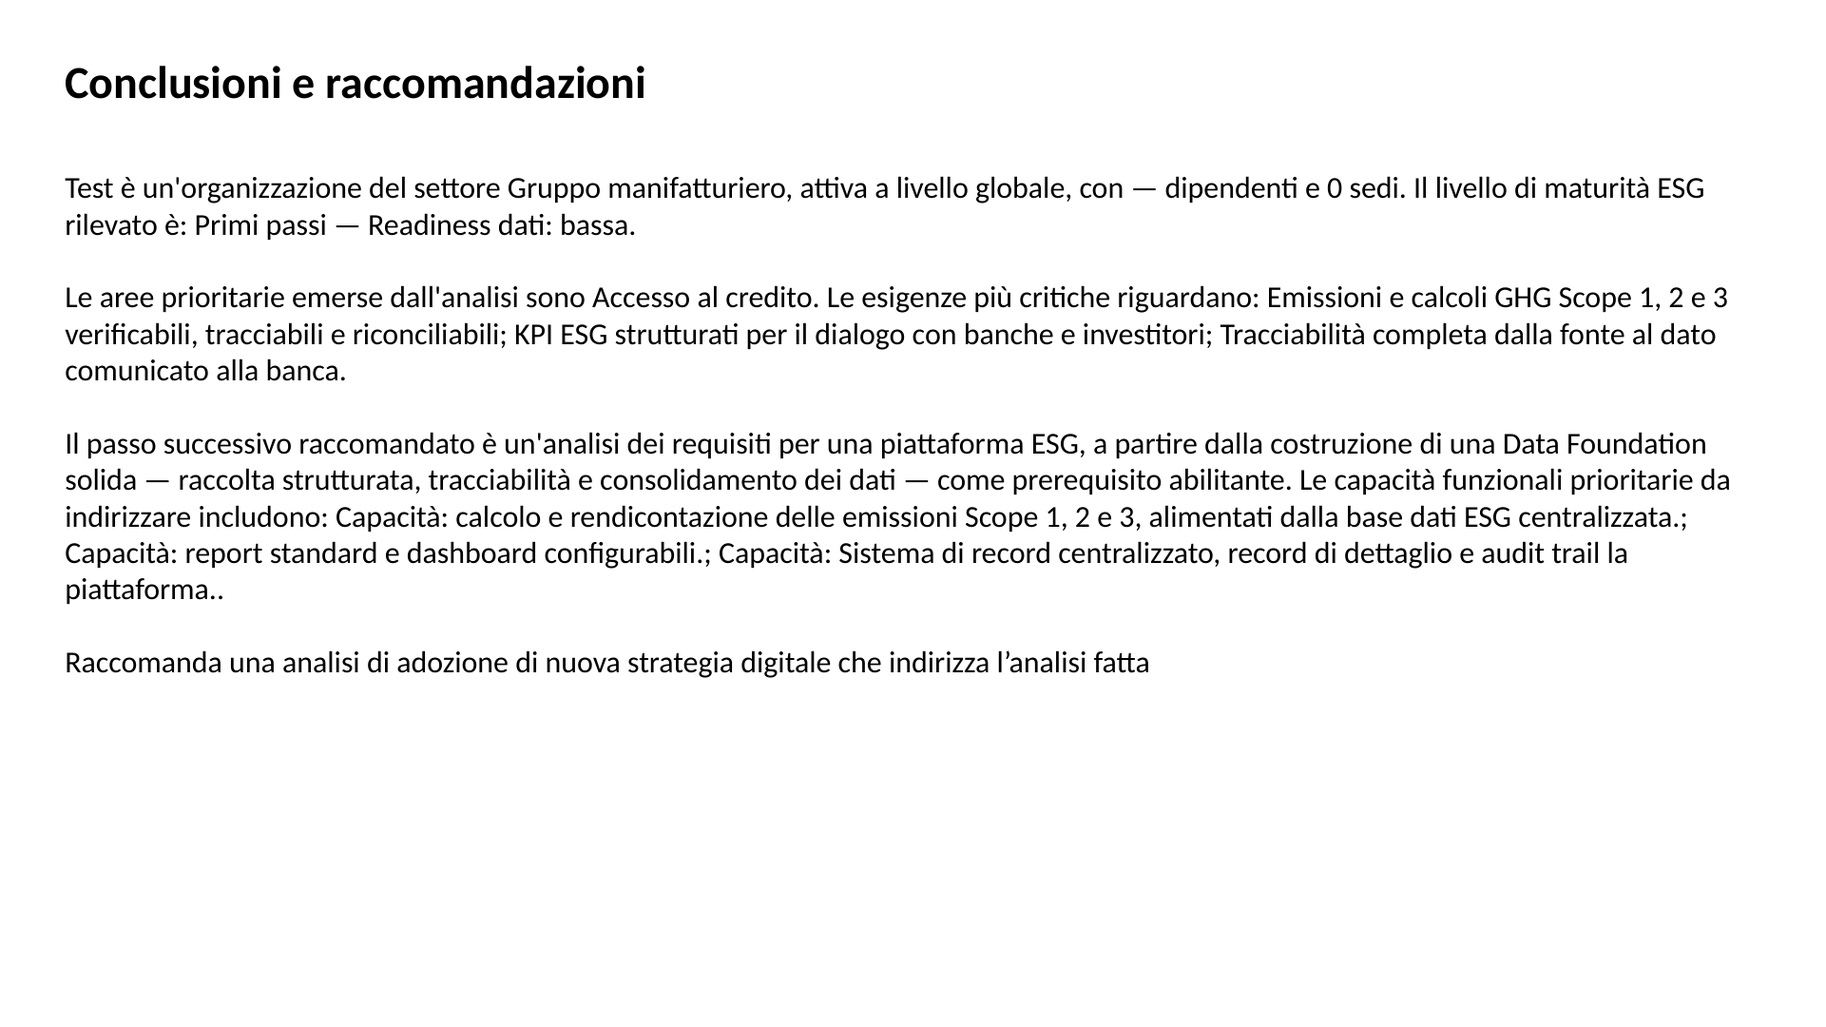
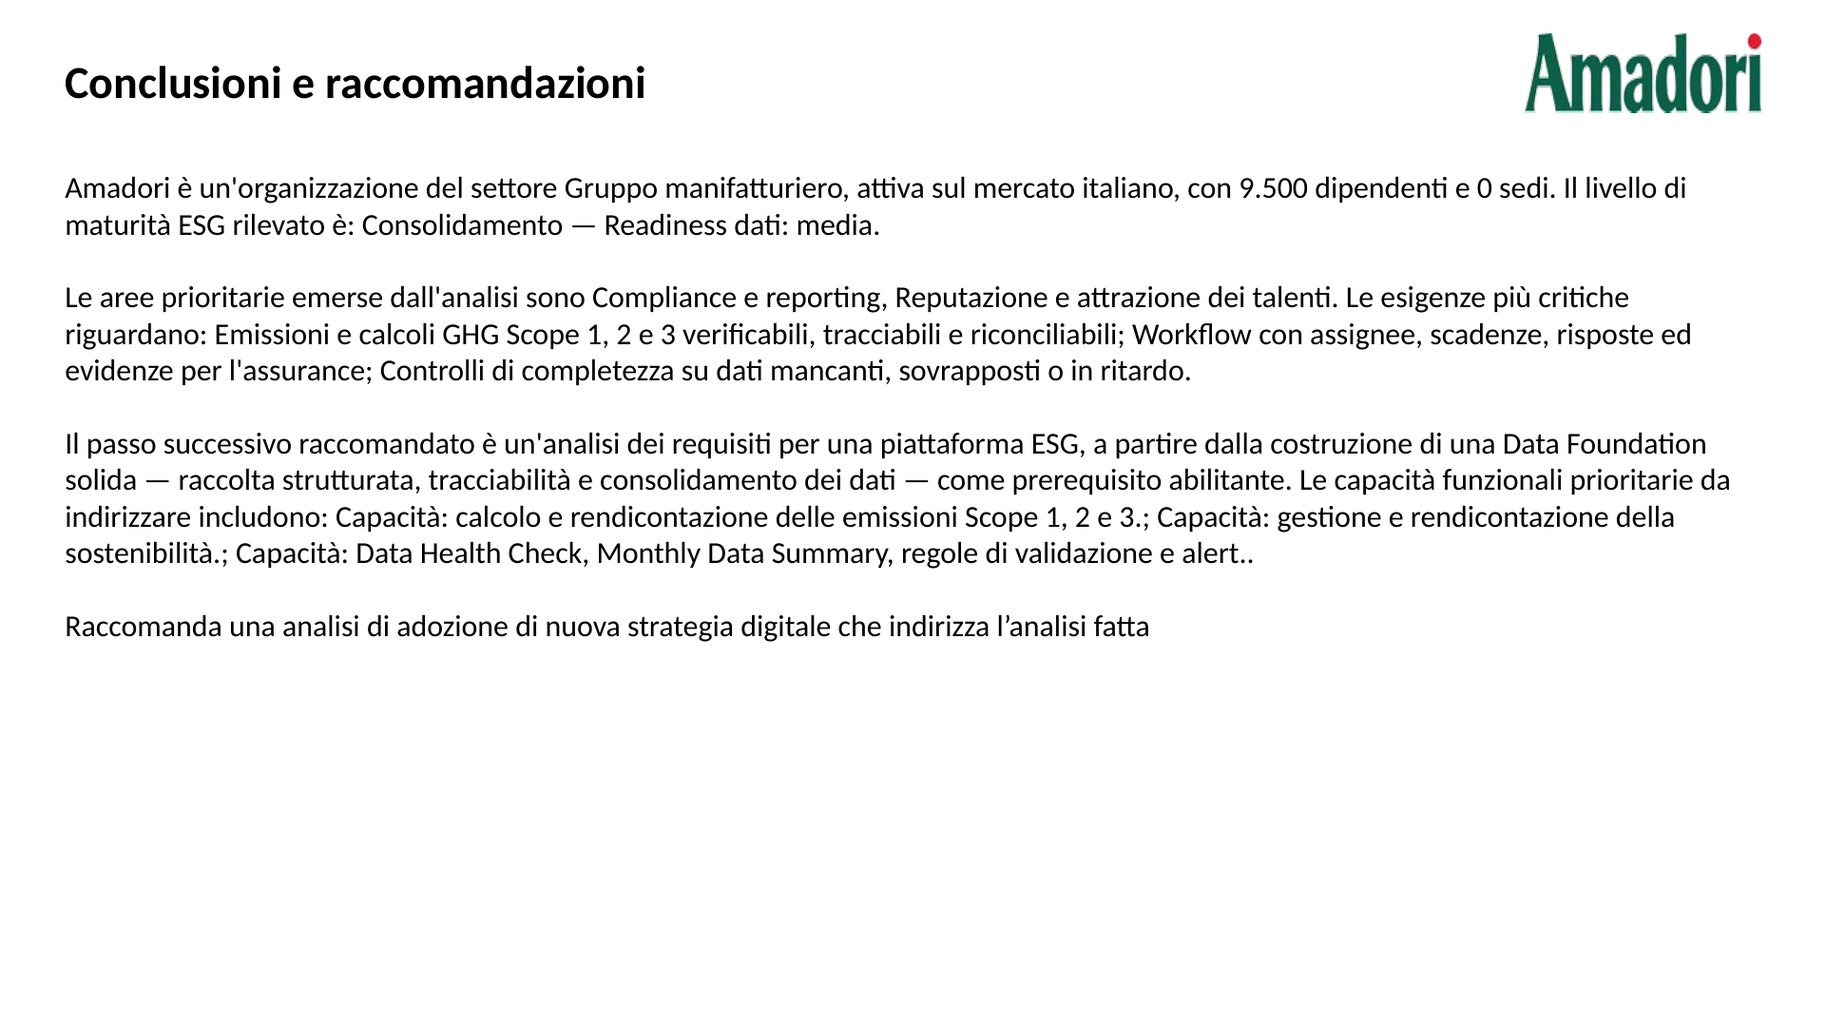
Report PPTX: fix slide 5 layout (box 2/6, 6/6), titles slide 2-4, number formatting, remove interval metering label

diff --git a/source/src/generateTemplatePptx.ts b/source/src/generateTemplatePptx.ts
@@ -1,6 +1,6 @@
 import JSZip from "jszip";
 import type { SummaryPptxData } from "./generateSummaryPptx";
-import { SCENARIO_MODULES, SCENARIO_MODULES_TOBE, NEED_COL_C } from "./constants";
+import { SCENARIO_MODULES, SCENARIO_MODULES_TOBE, NEED_COL_C, fmtNum } from "./constants";
 import iconCredito     from "../public/icon-credito.png";
 import iconCompliance  from "../public/icon-compliance.png";
 import iconClienti     from "../public/icon-clienti.png";
@@ -183,6 +183,23 @@ function prioAtRank(
 //  2. Para-level: for placeholders contained within a single paragraph, replace
 //     in-place preserving the paragraph structure.
 
+// Le chiavi puramente numeriche (es. "500", "54", "8") sono segnaposto dei valori
+// delle stat card: vanno sostituite UNA sola volta e solo se sono l'INTERO testo
+// (seconda passata). Con split/join su ogni passata il valore già sostituito
+// veniva ri-sostituito (es. "500" → "9.500" → "9.9.500").
+const isNumericKey = (k: string) => /^\d+$/.test(k);
+
+function applyReplacements(text: string, replacements: Record<string, string>, allowNumeric: boolean): string {
+  if (allowNumeric && isNumericKey(text) && Object.prototype.hasOwnProperty.call(replacements, text)) {
+    return replacements[text];
+  }
+  let out = text;
+  for (const [ph, val] of Object.entries(replacements)) {
+    if (!isNumericKey(ph)) out = out.split(ph).join(val);
+  }
+  return out;
+}
+
 function replaceInSlideXml(xml: string, replacements: Record<string, string>): string {
   // Pass 1 — shape-level (handles multi-paragraph placeholders)
   xml = xml.replace(/(<p:txBody>)([\s\S]*?)(<\/p:txBody>)/g, (match, open, body, close) => {
@@ -196,10 +213,7 @@ function replaceInSlideXml(xml: string, replacements: Record<string, string>): s
     });
     const fullText = paraTexts.join("");
 
-    let newText = fullText;
-    for (const [ph, val] of Object.entries(replacements)) {
-      newText = newText.split(ph).join(val);
-    }
+    const newText = applyReplacements(fullText, replacements, false);
     if (newText === fullText) return match; // no multi-para placeholder matched
 
     // Extract body-level props (bodyPr, lstStyle) and first rPr
@@ -221,10 +235,7 @@ function replaceInSlideXml(xml: string, replacements: Record<string, string>): s
       .map((t) => t.replace(/<a:t>|<\/a:t>/g, ""))
       .join("");
 
-    let newText = fullText;
-    for (const [ph, val] of Object.entries(replacements)) {
-      newText = newText.split(ph).join(val);
-    }
+    const newText = applyReplacements(fullText, replacements, true);
 
     if (newText === fullText) return paraMatch;
 
@@ -270,14 +281,100 @@ function fixSlide2ReadinessFont(xml: string): string {
   );
 }
 
-// ── Slide 5 reputazione note nudge ───────────────────────────────────────────
-// Shifts the note text box of the reputazione slot (id=50) slightly downward
-// so it aligns better visually with the other bottom-row note boxes.
-function nudgeSlide5ReputazioneNote(xml: string): string {
+// ── Slide 5 note boxes: altezza rigida ───────────────────────────────────────
+// Le caselle-nota (id 39,42,44,46,48,50) nel template hanno spAutoFit: l'altezza segue la
+// quantità di testo, quindi il testo (centrato in verticale) finiva a livelli diversi da box
+// a box (es. 6/6 con meno righe del 5/6). Le rendo rigide (noAutofit) e tutte alte come quella
+// del 5/6 (id=48, cy=1384995). La nota del 6/6 (id=50) parte dalla stessa y della nota del 5/6
+// (3502152), così il testo è centrato sullo stesso livello.
+const SLIDE5_NOTE_IDS = [39, 42, 44, 46, 48, 50];
+const SLIDE5_NOTE_CY = 1384995;
+function fixSlide5NotesRigid(xml: string): string {
+  for (const id of SLIDE5_NOTE_IDS) {
+    const re = new RegExp(`(<p:sp>(?:(?!<p:sp>)[\\s\\S])*?<p:cNvPr[^>]*\\bid="${id}"[^>]*>[\\s\\S]*?</p:sp>)`);
+    xml = xml.replace(re, (sp) => {
+      let out = sp
+        .replace(/<a:spAutoFit\/>/g, "<a:noAutofit/>")
+        .replace(/(<a:ext cx="\d+" cy=")\d+(")/, (_m, a, b) => `${a}${SLIDE5_NOTE_CY}${b}`);
+      // Nota 6/6: stessa x della nota 3/6 (id=44, x=9677410) e stessa y della nota 5/6.
+      if (id === 50) out = out.replace(/<a:off x="\d+" y="\d+"/, `<a:off x="9677410" y="3502152"`);
+      return out;
+    });
+  }
+  return xml;
+}
+
+// ── Slide 5 box 6 resize/align ───────────────────────────────────────────────
+// Card dello slot 6 (immagine id=61). Le PNG delle card hanno margini trasparenti diversi,
+// quindi la cornice NON può essere copiata dal box 5: va calcolata sulla card VISIBILE.
+// Misure sui pixel delle PNG (righe/colonne della card visibile, estremi inclusi):
+//   box 5 (id=66, 310×130 px, cornice 3937000×1651000 @ y=3347112): righe 1–124 (12700 EMU/px)
+//   box 6 (id=61, 313×129 px): righe 4–127, colonne 33–310
+//   box 3 (id=69, 310×137 px, cornice x=8138437 w=3975100): colonne 39–302
+// Obiettivo: stessa altezza e stesso livello (top/bottom) del box 5, bordi sinistro e destro
+// visibili allineati al box 3.
+//   cy = 129·12700 = 1638300 · y = 3359812 − 4·12700 = 3309012
+//   visibile 3 = [8638542, 12011050] → 12175.1 EMU/px · cx = 313·12175.1 = 3810806 · x = 8638542 − 33·12175.1 = 8236764
+function resizeSlide5Box6(xml: string): string {
   return xml.replace(
-    /(<p:sp>(?:(?!<p:sp>)[\s\S])*?<p:cNvPr[^>]*\bid="50"[^>]*>[\s\S]*?<a:off x="[^"]*" y=")(\d+)(")/,
-    (_, pre, _y, post) => `${pre}3679584${post}`
+    /(<p:pic>(?:(?!<p:pic>)[\s\S])*?<p:cNvPr[^>]*\bid="61"[^>]*>[\s\S]*?<a:off x=")\d+(" y=")\d+("\/><a:ext cx=")\d+(" cy=")\d+(")/,
+    (_m, a, b, c, d, e) => `${a}8236764${b}3309012${c}3810806${d}1638300${e}`
   );
+}
+
+// ── Slide 5 box 2 vertical align ─────────────────────────────────────────────
+// Le immagini-card hanno margini trasparenti diversi e vengono riassegnate agli slot in base
+// alle priorità (remapSlide5Icons), quindi il bordo alto VISIBILE dipende dall'immagine.
+// Calcolo il bordo alto visibile di ogni card della riga alta (y + riga_top·cy/altezza_px) e
+// sposto lo slot 2 (id=70) così che il suo bordo alto coincida con la media di slot 1 (id=68)
+// e slot 3 (id=69). Righe del bordo alto / altezze in px per rId (misurate sui PNG).
+const SLIDE5_CARD_TOP_PX: Record<string, [number, number]> = {
+  rId4: [4, 136], rId5: [4, 129], rId6: [1, 130], rId7: [5, 132], rId8: [8, 137], rId9: [8, 141],
+};
+function alignSlide5Box2(xml: string): string {
+  const picRe = (id: number) =>
+    new RegExp(`(<p:pic>(?:(?!<p:pic>)[\\s\\S])*?<p:cNvPr[^>]*\\bid="${id}"[\\s\\S]*?r:embed=")([^"]+)("[\\s\\S]*?<a:off x="\\d+" y=")(\\d+)("/><a:ext cx="\\d+" cy=")(\\d+)(")`);
+  const visTop = (id: number): number | null => {
+    const m = xml.match(picRe(id));
+    const t = m && SLIDE5_CARD_TOP_PX[m[2]];
+    return m && t ? Number(m[4]) + (t[0] * Number(m[6])) / t[1] : null;
+  };
+  const t1 = visTop(68), t3 = visTop(69), t2 = visTop(70);
+  if (t1 === null || t3 === null || t2 === null) return xml;
+  const delta = Math.round((t1 + t3) / 2 - t2);
+  return xml.replace(picRe(70), (_m, a, r, c, y, d, cy, e) => `${a}${r}${c}${Number(y) + delta}${d}${cy}${e}`);
+}
+
+// ── Slide 5 title 5/6 reposition ─────────────────────────────────────────────
+// Titolo dello slot 5 (rettangolo id=12): x allineata al titolo 2/6 (id=4, x=4399234),
+// y spostata leggermente in basso (3323842 → 3373842, +50000 EMU ≈ 4pt).
+function moveSlide5Title5(xml: string): string {
+  return xml.replace(
+    /(<p:sp>(?:(?!<p:sp>)[\s\S])*?<p:cNvPr[^>]*\bid="12"[^>]*>[\s\S]*?<a:off x=")\d+(" y=")\d+(")/,
+    (_m, a, b, c) => `${a}4399234${b}3373842${c}`
+  );
+}
+
+// ── Slide 5 box 1 widen ──────────────────────────────────────────────────────
+// Allarga verso sinistra la card dello slot 1 (immagine id=68) allineandola alla card
+// dello slot 4 (id=60): x 239629 → 127277, cx 3775834 → 3888186. Il bordo destro
+// (4015463) resta identico a quello del box 4.
+function widenSlide5Box1(xml: string): string {
+  return xml.replace(
+    /(<p:pic>(?:(?!<p:pic>)[\s\S])*?<p:cNvPr[^>]*\bid="68"[^>]*>[\s\S]*?<a:off x=")\d+(" y="\d+"\/><a:ext cx=")\d+(")/,
+    (_m, a, b, c) => `${a}127277${b}3888186${c}`
+  );
+}
+
+// ── Slide 5 notes font reducer ───────────────────────────────────────────────
+// Riduce del 20% il font dei box-nota degli obiettivi (id 39,42,44,46,48,50:
+// sz 1100 → 880). I titoli "N/6 …" (rettangoli id 4,6,8,10,12,27) restano al 100%.
+function reduceSlide5NotesFont(xml: string): string {
+  for (const id of [39, 42, 44, 46, 48, 50]) {
+    const re = new RegExp(`(<p:sp>(?:(?!<p:sp>)[\\s\\S])*?<p:cNvPr[^>]*\\bid="${id}"[^>]*>[\\s\\S]*?</p:sp>)`);
+    xml = xml.replace(re, (spBlock) => spBlock.replace(/\bsz="1100"/g, `sz="880"`));
+  }
+  return xml;
 }
 
 // ── Slide 6 title font reducer ────────────────────────────────────────────────
@@ -818,8 +915,8 @@ async function generateCompanySlidePng(data: SummaryPptxData, isIt: boolean): Pr
     const stats = [
       [isIt?"Settore":"Sector", data.sectorLabel],
       [isIt?"Mercato":"Market", data.marketLabel],
-      [isIt?"Fatturato":"Revenue", `${data.revenue} ${data.dimUnit}${data.revenueYear ? ` (${data.revenueYear})` : ""}`],
-      [isIt?"Dipendenti":"Employees", String(data.employees?.toLocaleString() ?? "—")],
+      [isIt?"Fatturato":"Revenue", `${fmtNum(data.revenue, isIt)} ${data.dimUnit}${data.revenueYear ? ` (${data.revenueYear})` : ""}`],
+      [isIt?"Dipendenti":"Employees", data.employees != null ? fmtNum(data.employees, isIt) : "—"],
     ];
     let y = 90;
     const statW = (W/2 - 72) / 2 - 8;
@@ -991,7 +1088,7 @@ function buildFindingsSummary(
   const maturity   = data.maturityTitle  || (isIt ? "in fase di strutturazione" : "in a structuring phase");
   const sector     = data.sectorLabel   || "";
   const market     = data.marketLabel   || "";
-  const employees  = data.employees     ? data.employees.toLocaleString() : "—";
+  const employees  = data.employees     ? fmtNum(data.employees, isIt) : "—";
   const totalSedi  = data.plants + data.offices + (data.dataCenters ?? 0);
 
   if (isIt) {
@@ -1554,13 +1651,16 @@ async function _generateTemplatePptxImpl(data: SummaryPptxData): Promise<void> {
     : (geoComplexityLevel === "low" ? "Low"   : geoComplexityLevel === "medium" ? "Medium" : "High");
   const geoComplexityColor = geoComplexityLevel === "low" ? "2E7D54" : geoComplexityLevel === "medium" ? "C07A00" : "C0392B";
   const slide3ComplexityText = isIt
-    ? `Complessità di reporting per ${resolvedCompanyName}: ${geoComplexityLabel}`
-    : `Reporting complexity for ${resolvedCompanyName}: ${geoComplexityLabel}`;
+    ? `Impatto su complessità del reporting di ${resolvedCompanyName}: ${geoComplexityLabel}`
+    : `Impact on reporting complexity of ${resolvedCompanyName}: ${geoComplexityLabel}`;
 
   // Slide2 title (shape id=2): company name + market presence + ESG focus
+  const mkt = data.marketLabel.toLowerCase();
+  const presenceIt = mkt === "solo italia" ? "presenza solo in Italia" : mkt === "europa" ? "presenza europea" : `presenza ${mkt}`;
+  const presenceEn = mkt === "italy only" ? "a presence in Italy only" : mkt === "europe" ? "a European presence" : `a ${mkt} presence`;
   const slide2Title = isIt
-    ? `${resolvedCompanyName} combina una presenza ${data.marketLabel.toLowerCase()} con una forte attenzione a ESG`
-    : `${resolvedCompanyName} combines a ${data.marketLabel.toLowerCase()} presence with a strong focus on ESG`;
+    ? `${resolvedCompanyName} combina una ${presenceIt} con una forte attenzione a ESG`
+    : `${resolvedCompanyName} combines ${presenceEn} with a strong focus on ESG`;
 
   // Slide 5 (priorities): fill each of the 6 fixed cells.
   // Template cell order (by shape id in slide5):
@@ -1625,14 +1725,19 @@ async function _generateTemplatePptxImpl(data: SummaryPptxData): Promise<void> {
     "Incontro di lavoro · 2026":
       `${isIt ? "Incontro di lavoro" : "Working session"} · ${new Date().getFullYear()}`,
 
+    // ── Slide 3 title (testo fisso nel template) ──
+    "Valute e unità di misura aumentano la complessità del reporting globale":
+      isIt ? "Molteplici valute e unità di misura aumentano la complessità del reporting globale"
+           : "Multiple currencies and units of measure increase global reporting complexity",
+
     // ── Slide 2 ──
     // Title (id=2): dynamic sentence
     "Erica combina una presenza globale con una maturità ESG ancora iniziale": slide2Title,
     // Stat cards — value shapes
     // Strip trailing descriptor word from dimUnit (e.g. "€mln ricavi" → "€mln")
     // so the card shows only the numeric value + monetary unit; the label below already carries the descriptor.
-    "€100 mln": `${data.revenue} ${data.dimUnit.replace(/\s+\S+$/, "")}`,
-    "500":      `${data.employees.toLocaleString()}`,
+    "€100 mln": `${fmtNum(data.revenue, isIt)} ${data.dimUnit.replace(/\s+\S+$/, "")}`,
+    "500":      `${fmtNum(data.employees, isIt)}`,
     "54":       `${totalSedi}`,
     "8":        `${activeGeoCount}`,
     // Revenue card sub-label: add year
@@ -1955,7 +2060,12 @@ async function _generateTemplatePptxImpl(data: SummaryPptxData): Promise<void> {
     // Slide 5: remap priority icons + nudge reputazione note downward
     if (i === 5) {
       xmlStr = remapSlide5Icons(xmlStr);
-      xmlStr = nudgeSlide5ReputazioneNote(xmlStr);
+      xmlStr = fixSlide5NotesRigid(xmlStr);
+      xmlStr = reduceSlide5NotesFont(xmlStr);
+      xmlStr = widenSlide5Box1(xmlStr);
+      xmlStr = moveSlide5Title5(xmlStr);
+      xmlStr = resizeSlide5Box6(xmlStr);
+      xmlStr = alignSlide5Box2(xmlStr);
     }
 
     // Slide 6: reduce title font, run text replacements, then write the needs list last
@@ -2025,8 +2135,8 @@ async function _generateTemplatePptxImpl(data: SummaryPptxData): Promise<void> {
     const inUsoCount4 = Object.values(fwChecks).filter(f => f.inUso).length;
     const slide4Title = inUsoCount4 === 0
       ? (isIt
-          ? `${resolvedCompanyName} non usa ancora framework ESG strutturati`
-          : `${resolvedCompanyName} does not yet use structured ESG frameworks`)
+          ? `${resolvedCompanyName} non usa altri standard oltre ESRS come framework ESG strutturati`
+          : `${resolvedCompanyName} does not use other standards beyond ESRS as structured ESG frameworks`)
       : inUsoCount4 === 1
         ? (isIt
             ? `${resolvedCompanyName} usa un unico framework ESG`

diff --git a/source/src/screens/ReportSlideshow.tsx b/source/src/screens/ReportSlideshow.tsx
@@ -1,7 +1,7 @@
 import { useState } from "react";
 import type { CommonProps } from "./types";
 import type { Priority } from "../types";
-import { SCENARIO_MODULES } from "../constants";
+import { SCENARIO_MODULES, fmtNum } from "../constants";
 
 type SiteGeoKey = "italia"|"europa"|"nordamerica"|"sudamerica"|"asia"|"africa"|"australia";
 type SiteRowKey = "uffici"|"ops"|"datacenter"|"altro";
@@ -135,8 +135,8 @@ function SlideCompany({ d }: { d: ReportData }) {
               {[
                 {label:isIt?"Settore":"Sector", value:d.sectorLabel},
                 {label:isIt?"Mercato":"Market", value:d.marketLabel},
-                {label:isIt?"Fatturato":"Revenue", value:`${d.revenue} ${d.dimUnit}`},
-                {label:isIt?"Dipendenti":"Employees", value:d.employees.toLocaleString()},
+                {label:isIt?"Fatturato":"Revenue", value:`${fmtNum(d.revenue,isIt)} ${d.dimUnit}`},
+                {label:isIt?"Dipendenti":"Employees", value:fmtNum(d.employees,isIt)},
               ].map(({label,value})=>(
                 <div key={label} style={{background:"#f0f7f3",borderRadius:10,padding:"10px 14px",borderLeft:"3px solid #1a7a4a"}}>
                   <div style={{fontSize:11,fontWeight:700,color:"#1a7a4a",letterSpacing:".08em",textTransform:"uppercase",marginBottom:4}}>{label}</div>
@@ -222,15 +222,15 @@ function Slide2({ d }: { d: ReportData }) {
             {isIt?`${d.companyName} ha avviato il percorso ESG`:`${d.companyName} has started its ESG journey`}
           </div>
           <div style={{fontSize:15,fontWeight:600,color:complexityBg,letterSpacing:".01em"}}>
-            {isIt?`Complessità di reporting per ${d.companyName}: ${complexityLabel}`:`Reporting complexity for ${d.companyName}: ${complexityLabel}`}
+            {isIt?`Impatto su complessità del reporting di ${d.companyName}: ${complexityLabel}`:`Impact on reporting complexity of ${d.companyName}: ${complexityLabel}`}
           </div>
         </div>
         <div style={{display:"grid",gridTemplateColumns:"1fr 1fr",gap:"0 60px"}}>
           {/* left col */}
           <div style={{fontSize:17,color:"#1a3a2a",lineHeight:1.9,display:"flex",flexDirection:"column",gap:4}}>
             <p style={{margin:0}}>{isIt?`${d.companyName} è un ${d.sectorLabel.toLowerCase()} presente a livello ${d.marketLabel}.`:`${d.companyName} is a ${d.sectorLabel.toLowerCase()} operating at ${d.marketLabel} level.`}</p>
-            <p style={{margin:0}}>{isIt?`Nell'ultimo esercizio ha registrato ${d.revenue} ${d.dimUnit}.`:`In the last financial year it reported ${d.revenue} ${d.dimUnit}.`}</p>
-            <p style={{margin:0}}>{isIt?`L'organizzazione occupa ${d.employees.toLocaleString()} dipendenti.`:`The organisation employs ${d.employees.toLocaleString()} employees.`}</p>
+            <p style={{margin:0}}>{isIt?`Nell'ultimo esercizio ha registrato ${fmtNum(d.revenue,isIt)} ${d.dimUnit}.`:`In the last financial year it reported ${fmtNum(d.revenue,isIt)} ${d.dimUnit}.`}</p>
+            <p style={{margin:0}}>{isIt?`L'organizzazione occupa ${fmtNum(d.employees,isIt)} dipendenti.`:`The organisation employs ${fmtNum(d.employees,isIt)} employees.`}</p>
             <p style={{margin:0,color:d.csrdLabel.includes("non")||d.csrdLabel.includes("Not")?"#888":"#c05000"}}>{d.csrdLabel} {d.csrdSub}</p>
             <p style={{margin:"2px 0 0",fontSize:14}}>
               <span onClick={()=>window.open("https://www.consilium.europa.eu/en/press/press-releases/2026/02/24/council-signs-off-simplification-of-sustainability-reporting-and-due-diligence-requirements-to-boost-eu-competitiveness/","_blank")} style={{color:"#c05000",textDecoration:"underline",fontWeight:600,cursor:"pointer"}}>{isIt?"Consiglio dell'UE ↗":"EU Council ↗"}</span>

diff --git a/source/src/screens/SummarySlideViewer.tsx b/source/src/screens/SummarySlideViewer.tsx
@@ -1,5 +1,6 @@
 import React, { useState, useRef } from "react";
 import type { SummaryPptxData } from "../generateSummaryPptx";
+import { fmtNum } from "../constants";
 
 interface Props {
   data: SummaryPptxData;
@@ -163,8 +164,8 @@ function Slide2({ data, isIt }: { data: SummaryPptxData; isIt: boolean }) {
               : ` is a ${data.sectorLabel} operating mainly in ${data.marketLabel}.`}
             {" "}
             {isIt
-              ? `Nell'anno ${year} ha registrato ${data.revenue} ${data.dimUnit} · ${data.employees.toLocaleString()} dipendenti.`
-              : `In ${year} it recorded ${data.revenue} ${data.dimUnit} · ${data.employees.toLocaleString()} employees.`}
+              ? `Nell'anno ${year} ha registrato ${fmtNum(data.revenue, true)} ${data.dimUnit} · ${fmtNum(data.employees, true)} dipendenti.`
+              : `In ${year} it recorded ${fmtNum(data.revenue, false)} ${data.dimUnit} · ${fmtNum(data.employees, false)} employees.`}
           </div>
 
           {/* CSRD card */}

diff --git a/source/src/generateSummaryPptx.ts b/source/src/generateSummaryPptx.ts
@@ -1,4 +1,5 @@
 import PptxGenJS from "pptxgenjs";
+import { fmtNum } from "./constants";
 
 // ── palette ──────────────────────────────────────────────────────────────
 const BG      = "07110e";
@@ -72,8 +73,8 @@ function addSlide1(
   const tags = [
     sectorLabel,
     marketLabel,
-    `${revenue} ${dimUnit}`,
-    `${employees.toLocaleString()} ${isIt ? "dipendenti" : "employees"}`,
+    `${fmtNum(revenue, isIt)} ${dimUnit}`,
+    `${fmtNum(employees, isIt)} ${isIt ? "dipendenti" : "employees"}`,
     ...(plants > 0 ? [`${plants} ${isIt ? "stabilimenti" : "plants"}`] : []),
     ...(offices > 0 ? [`${offices} ${isIt ? "uffici" : "offices"}`] : []),
   ];

diff --git a/source/src/constants.ts b/source/src/constants.ts
@@ -1,5 +1,10 @@
 import type { Priority, SectorKey, SectorDef, Profile, Screen } from "./types";
 
+// Separatore migliaia indipendente dalla lingua del browser: "." in italiano, "," in inglese.
+// (toLocaleString("it-IT") non raggruppa i numeri a 4 cifre: 9500 → "9500".)
+export const fmtNum = (n: number, isIt: boolean): string =>
+  String(n).replace(/\B(?=(\d{3})+(?!\d))/g, isIt ? "." : ",");
+
 export const defaultPriorities: Priority[] = ["customers","compliance","credit","efficiency","supply","reputation"];
 export const missionCatalog = [
   {icon:"DATA",it:"La fabbrica dei dati ESG",en:"The ESG data factory",itSub:"Baseline ESG e qualità dei dati",enSub:"ESG baseline and data quality",value:"DATA FOUNDATION"},

diff --git a/source/src/screens/FunctionalScopeScreen.tsx b/source/src/screens/FunctionalScopeScreen.tsx
@@ -38,8 +38,8 @@ export const PRIMARY_SCOPE_ITEMS: FunctionalScopeItem[] = [
   {
     id: "base-data-mgmt",
     num: 1,
-    title: "Base di gestione dei dati (o Base di misurazione a intervalli)",
-    titleEn: "Data Management Foundation (or Interval Metering Base)",
+    title: "Base di gestione dei dati",
+    titleEn: "Data Management Foundation",
     icon: "🏗",
     shortDesc: "Amministrazione, SSO, gestione dati, reporting, dashboard e dati meteo giornalieri.",
     shortDescEn: "Administration, SSO, data management, reporting, dashboards and daily weather data.",
